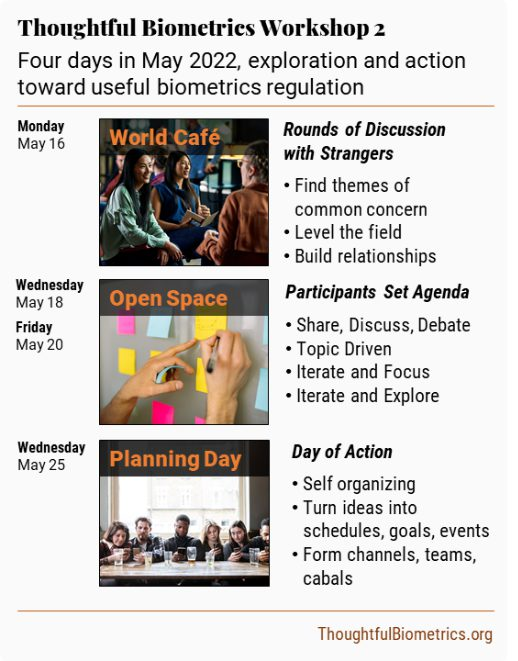
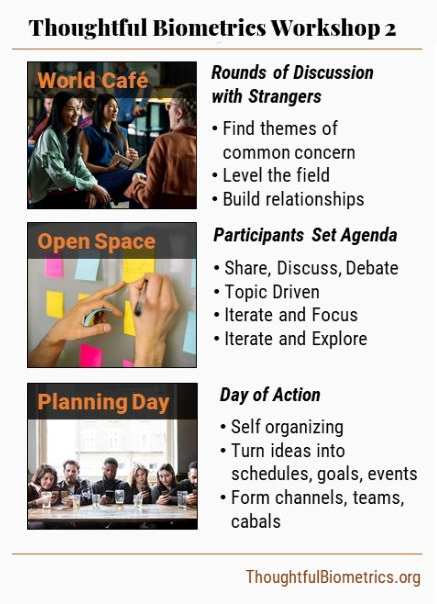
change dates

diff --git a/_posts/2022-03-14-thoughtful-biometrics.md b/_posts/2022-03-14-thoughtful-biometrics.md
@@ -4,7 +4,8 @@ title: The Thoughtful Biometrics Workshop 2022
 permalink: /
 published: true
 ---
-**TBW2**, the second **Thoughtful Biometrics Workshop**, starts 11 July 2022.<br>**[Register on Eventbrite](https://www.eventbrite.com/e/thoughtful-biometrics-workshop-tickets-297266601407)**. <br>TBW3 is in September 2022. [Subscribe to TBW announcements](https://docs.google.com/forms/d/e/1FAIpQLSe6lrXPP7f1tMvFVSo3dyFp7wLt18QEvkeTopNVGvbuk3eApw/viewform?usp=sf_link "a Google form until we get mailchimp set up").
+
+**TBW2**, the second **Thoughtful Biometrics Workshop**, coming Fall 2022.<br>**[Register on Eventbrite](https://www.eventbrite.com/e/thoughtful-biometrics-workshop-tickets-297266601407)**. <br>[Subscribe to TBW announcements](https://docs.google.com/forms/d/e/1FAIpQLSe6lrXPP7f1tMvFVSo3dyFp7wLt18QEvkeTopNVGvbuk3eApw/viewform?usp=sf_link "a Google form until we get mailchimp set up").
 
 # Intro
 
@@ -12,13 +13,10 @@ published: true
 
 <dl>
     <dt>When</dt>
-        <dd>11, 13, 15, and 20 July 2022 </dd>
-        <dd>Monday, Wednesday, Friday, and Wednesday </dd>
-        <dd>9:00 AM to 2:00 PM Pacific Time. (noon to 5:00 PM Eastern) </dd>
-    <dt>Where</dt>
+        <dd>Fall 2022</dd>
         <dd><a href="#format">Virtual Unconference Format</a> </dd>
     <dt>What</dt>
-        <dd>20 hours of live workshop in July 2022</dd>
+        <dd>20 hours of live workshop!</dd>
         <dd>Brings divergent biometrics policy stakeholders together to ideate a middle way</dd>
         <dd>You build common ground and shared understanding</dd>
         <dd><a href="#history">Second in a series</a> with more to come</dd>
@@ -134,10 +132,6 @@ We invited experts from diverse fields to tell us why this conversation matters 
 # Format
 
 This is a four-day virtual workshop.
-
-* Monday, Wednesday and Friday - 11, 13, 15, 20 July 2022
-* Wednesday, 20 July 2022: A *Day Of Action.*
-* 9am to 2pm Pacific / Noon to 5pm Eastern / 5pm to 10pm London
 
 <img src="/assets/TBW2_4_days_flow_compressed.jpg" style="border:1px #300; align:center; padding: 1em; border-radius:5%;">
 
@@ -277,8 +271,7 @@ And…
 |  | Event name | Venue | Date | Documentation |
 |:--:|:-------|:-------------|:-----|:-------|
 | 1 | [Thoughtful Biometrics Workshop 1](#tb1)  | Virtual | March 2021 | [Proceedings](../assets/TBW01_Book_of_Proceedings.pdf "download pdf")|
-| 2 | [Thoughtful Biometrics Workshop 2](#tbw2) | Virtual | July 2022 | Proceedings |
- 3 | [Thoughtful Biometrics Workshop 3](#tbw3) | TBD | September 2022 | Proceedings |
+| 2 | [Thoughtful Biometrics Workshop 2](#tbw2) | Virtual | Fall 2022 | Proceedings |
 
 <a name="tbw1"></a>
 
@@ -318,16 +311,9 @@ Contents:
 
 <a name="tbw2"></a>
 
-### **The Second Thoughtful Biometrics Workshop - July 2022**
+### **The Second Thoughtful Biometrics Workshop - Fall 2022**
 
 The second Thoughtful Biometrics conference is scheduled, seeding projects to turn concerns into action.
-
-<a name="tbw3"></a>
-
-### **The Third Thoughtful Biometrics Workshop - September 2022**
-
-The third Thoughtful Biometrics conference is planned for late September, where we share progress and move forward.
-
 
 # Conduct
 
